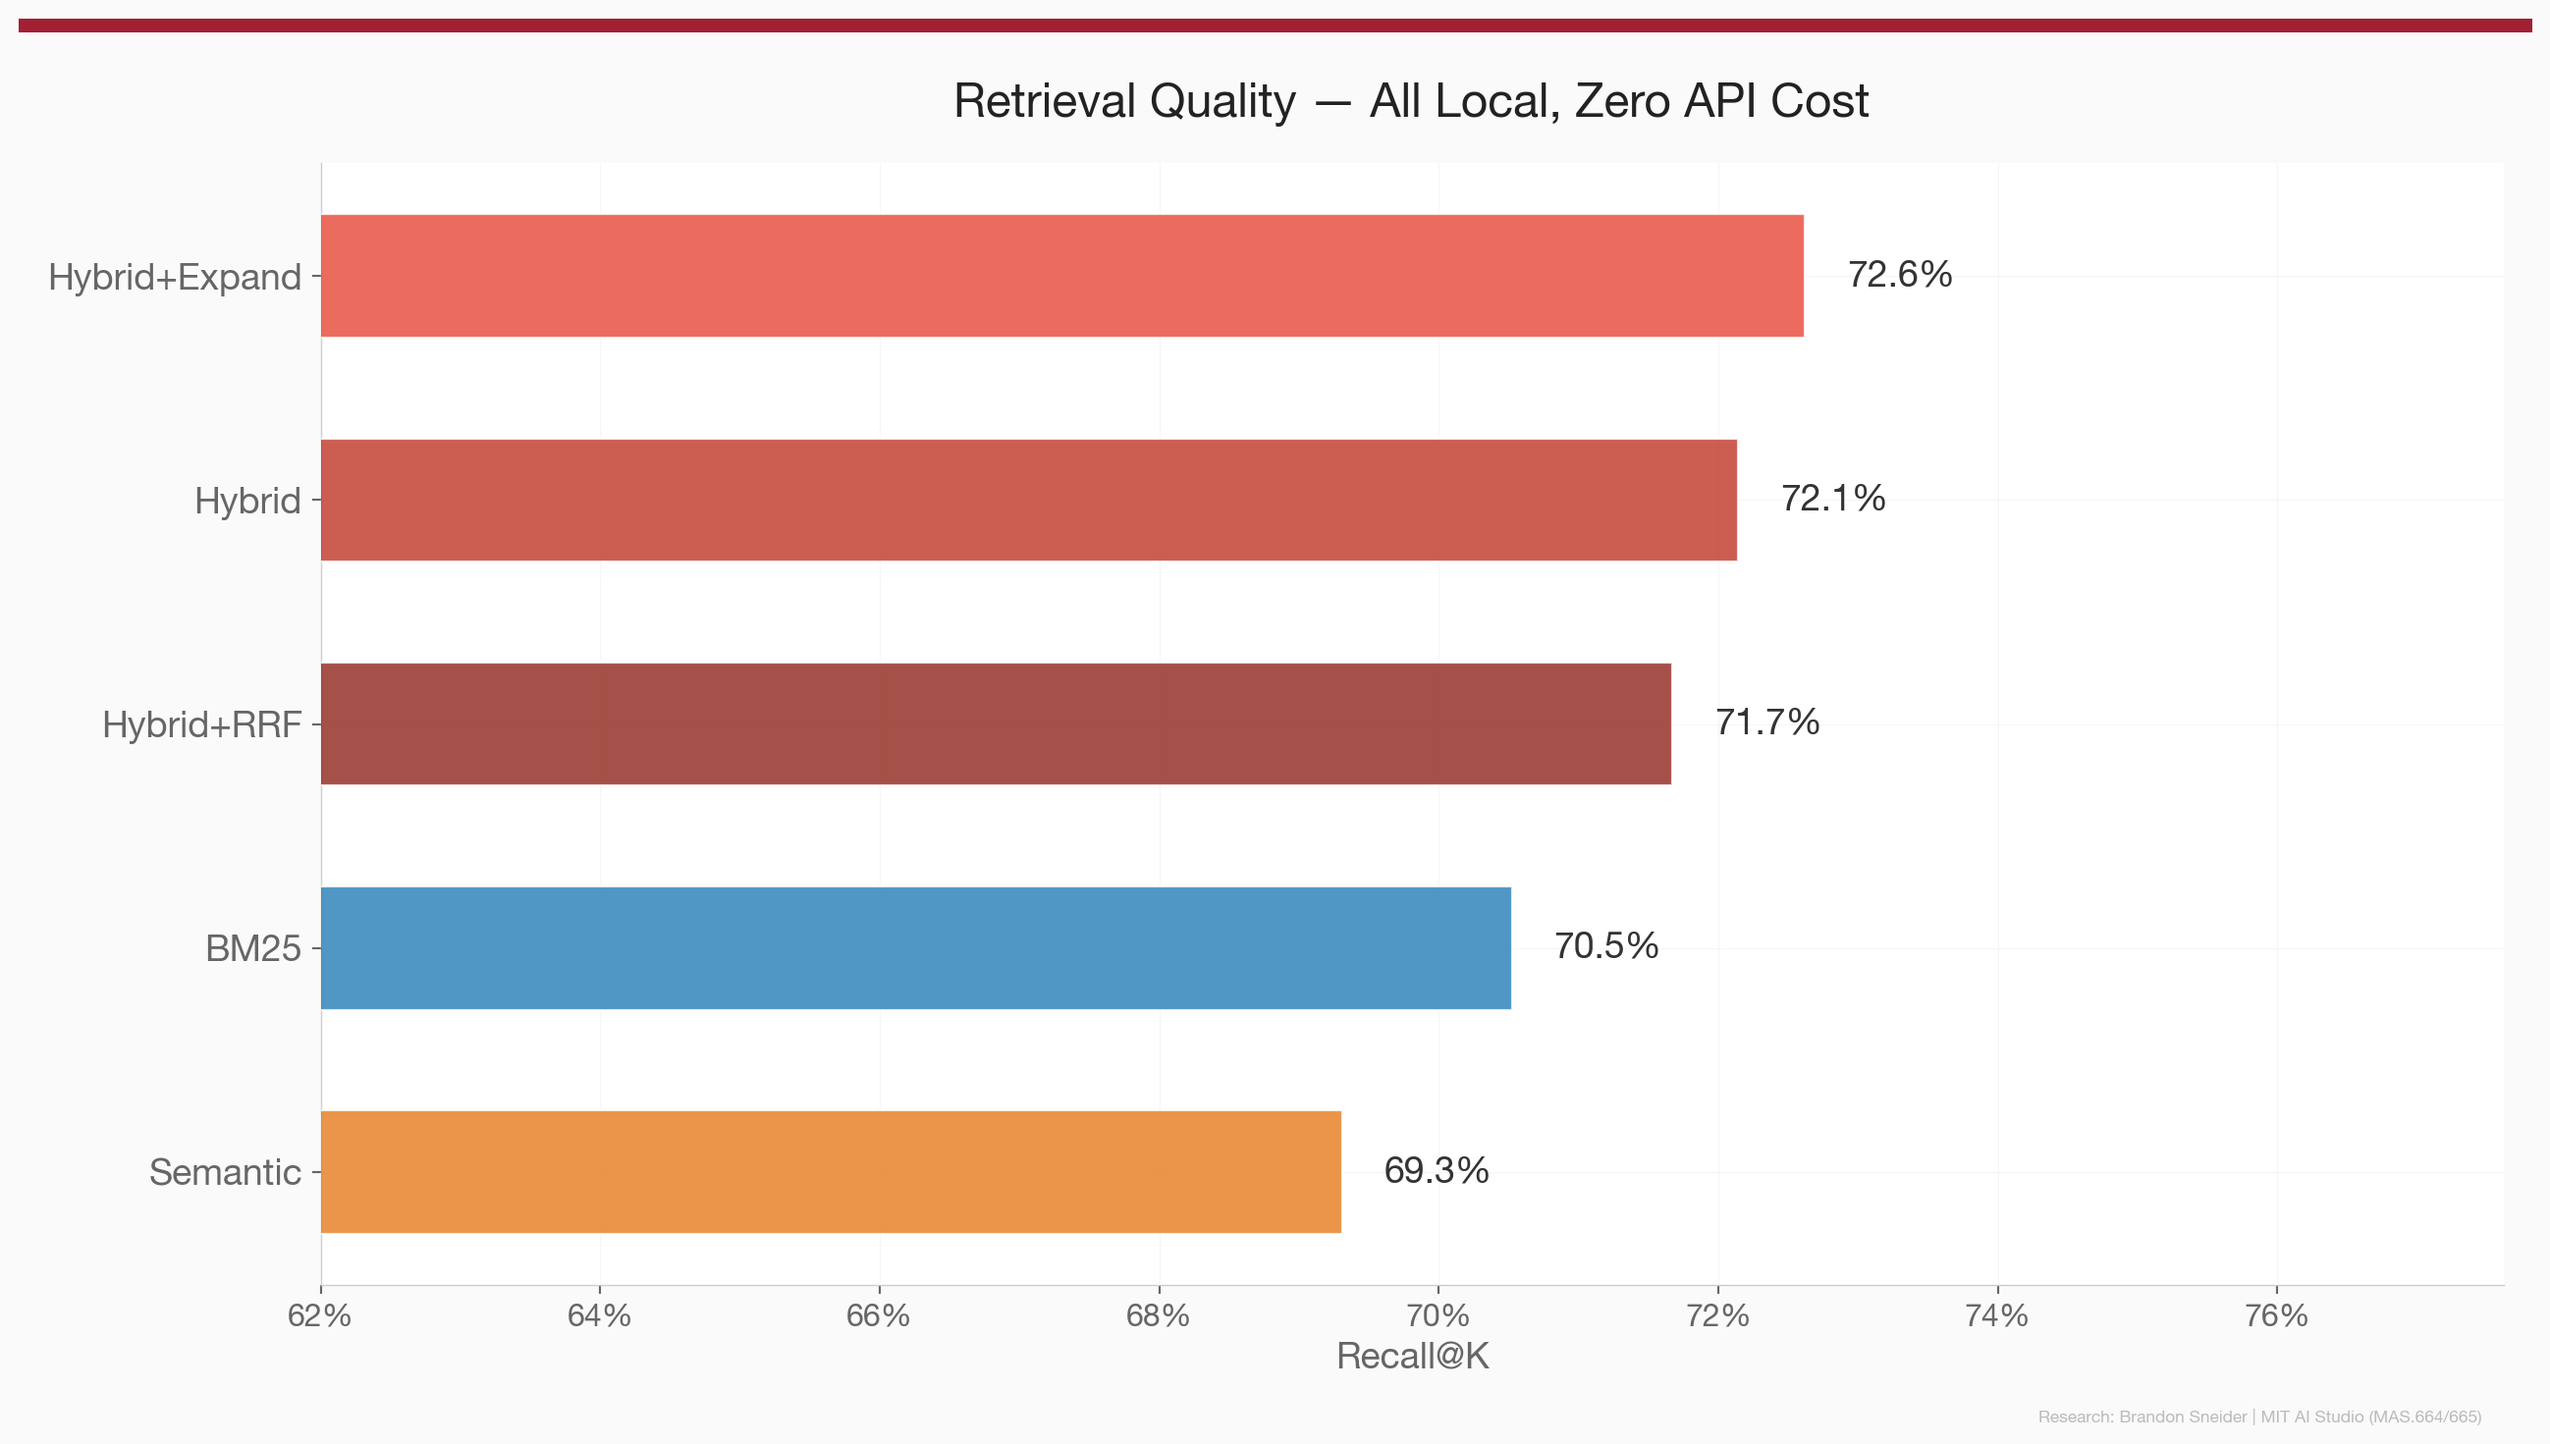
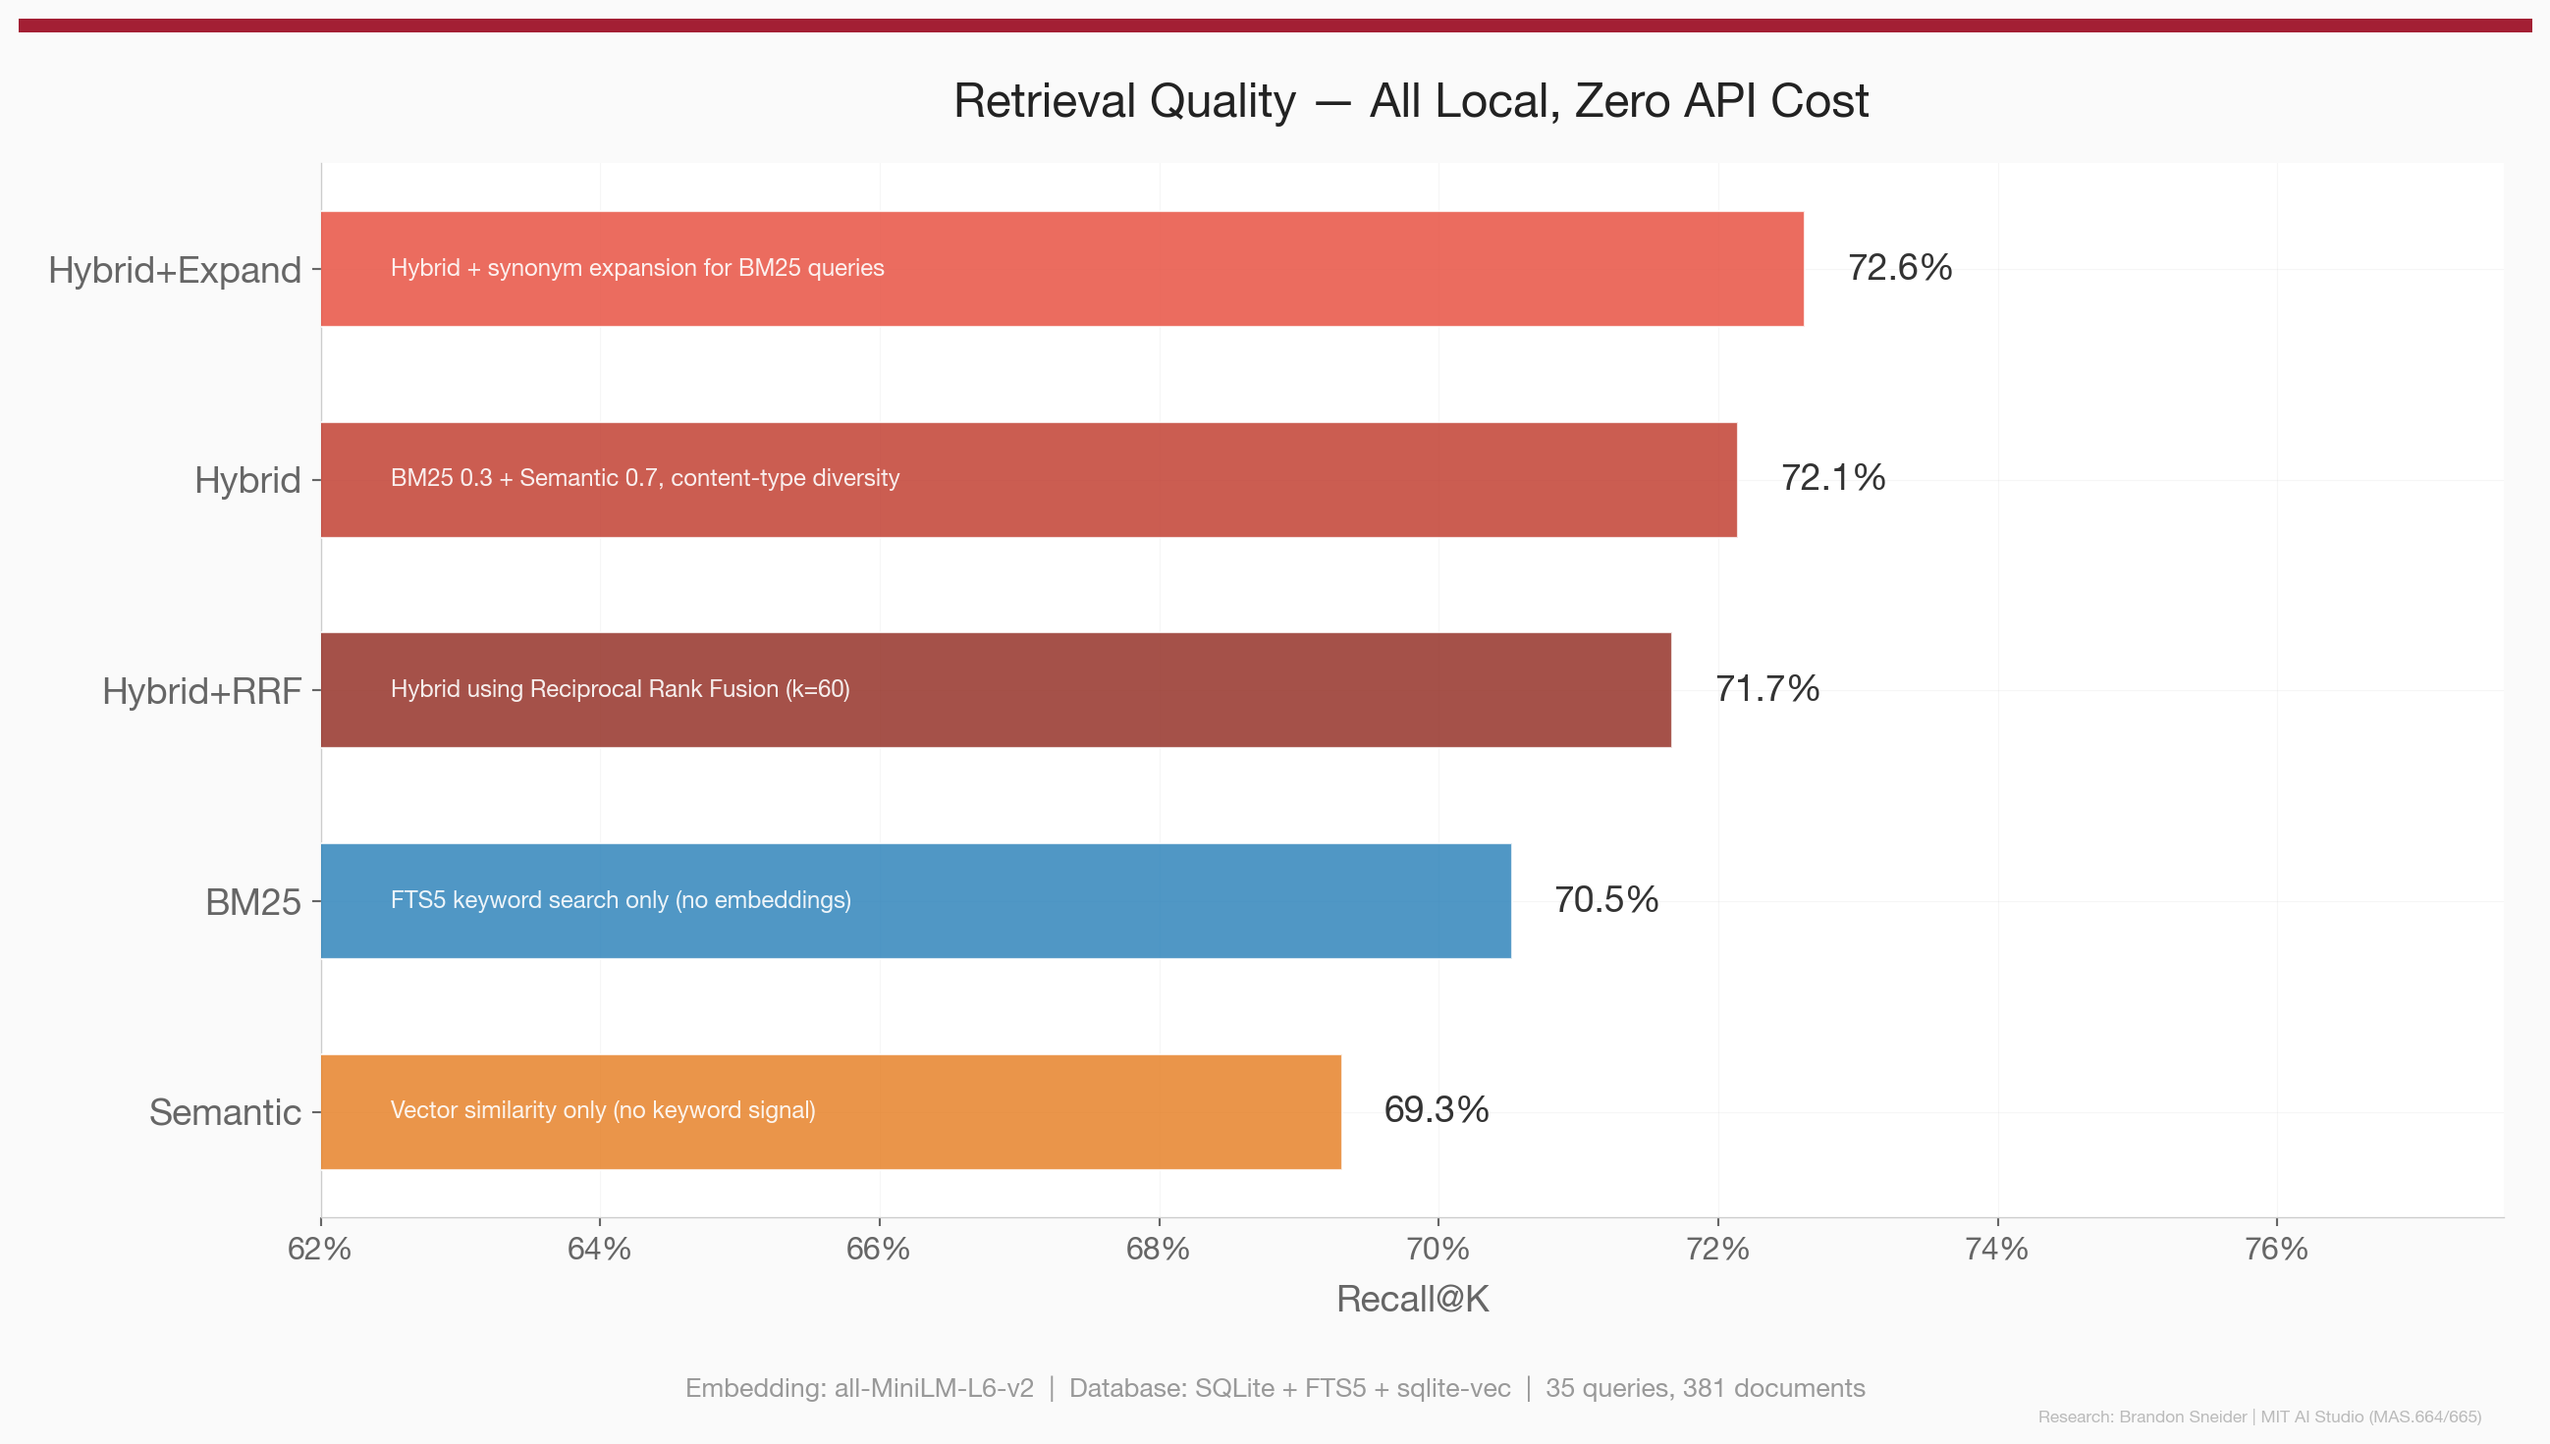
Add approach definitions and benchmark metadata to chart 1
Each bar now shows what the approach does (e.g. "Hybrid + synonym
expansion for BM25 queries"). Footer shows embedding model, database,
and dataset size so students can answer "how was this generated?"

diff --git a/scripts/generate_charts.py b/scripts/generate_charts.py
@@ -96,6 +96,15 @@ def _brand(fig):
 # ── Chart 1: Quality vs Cost ─────────────────────────────────────────────────
 
 
+APPROACH_DESC = {
+    "Hybrid":        "BM25 0.3 + Semantic 0.7, content-type diversity",
+    "Hybrid+Expand": "Hybrid + synonym expansion for BM25 queries",
+    "Hybrid+RRF":    "Hybrid using Reciprocal Rank Fusion (k=60)",
+    "BM25":          "FTS5 keyword search only (no embeddings)",
+    "Semantic":      "Vector similarity only (no keyword signal)",
+}
+
+
 def chart_quality_vs_cost(data, output_dir):
     _rc()
     agg = data["aggregates"]
@@ -112,22 +121,30 @@ def chart_quality_vs_cost(data, output_dir):
                    zorder=3, edgecolor="white", linewidth=0.8)
 
     best = max(recalls)
-    for bar, recall in zip(bars, recalls):
+    for bar, recall, name in zip(bars, recalls, ranked):
         mid = bar.get_y() + bar.get_height() / 2
         w = "bold" if recall == best else "normal"
         ax.text(recall + 0.003, mid, f"{recall:.1%}", va="center",
                 fontsize=14, fontweight=w, color="#333")
+        # Approach description inside the bar
+        desc = APPROACH_DESC.get(name, "")
+        if desc:
+            ax.text(0.625, mid, desc, va="center", fontsize=9,
+                    color="white", alpha=0.9, fontstyle="italic")
 
     ax.set_yticks(y)
     ax.set_yticklabels(ranked, fontsize=14, fontweight="bold")
-    ax.set_xlabel("Recall@K", fontsize=14, color="#666")
+    ax.set_xlabel("Recall@K", fontsize=14, color="#666", labelpad=8)
     ax.xaxis.set_major_formatter(plt.FuncFormatter(lambda v, _: f"{v:.0%}"))
     ax.tick_params(axis='x', labelsize=12)
     ax.set_xlim(0.62, best + 0.05)
     ax.set_title("Retrieval Quality — All Local, Zero API Cost",
                  fontsize=18, fontweight="bold", pad=18, color="#222")
 
-    fig.tight_layout(rect=[0, 0.02, 1, 0.975])
+    fig.tight_layout(rect=[0, 0.06, 1, 0.975])
+    fig.text(0.5, 0.025,
+             "Embedding: all-MiniLM-L6-v2  |  Database: SQLite + FTS5 + sqlite-vec  |  35 queries, 381 documents",
+             ha="center", fontsize=10, color="#999")
     _brand(fig)
     p = output_dir / "chart1_quality_vs_cost.png"
     fig.savefig(p, dpi=DPI, bbox_inches="tight", facecolor=BG)
